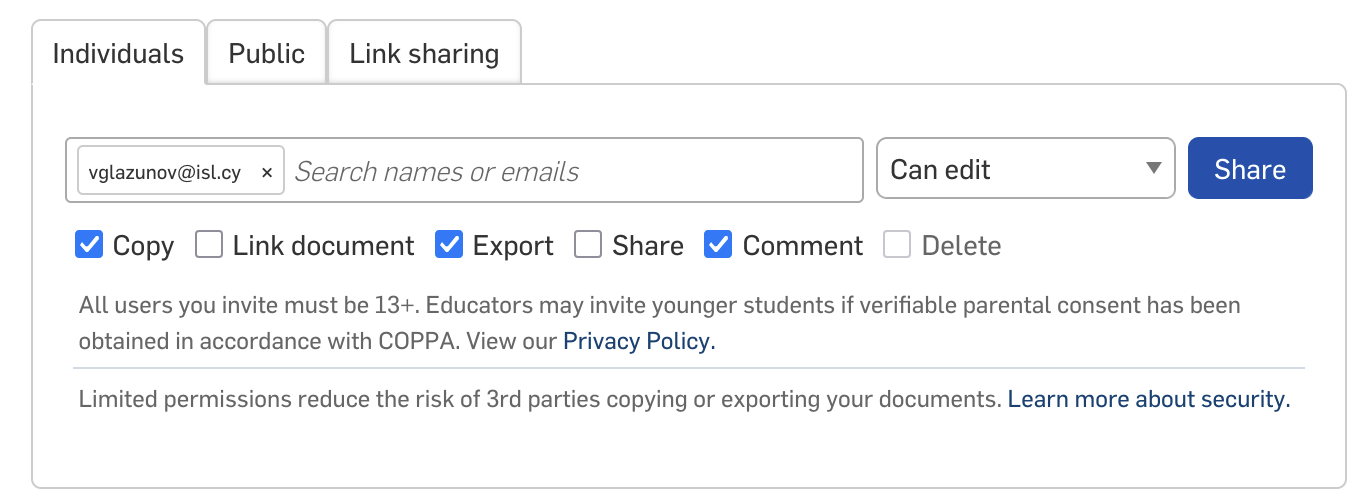
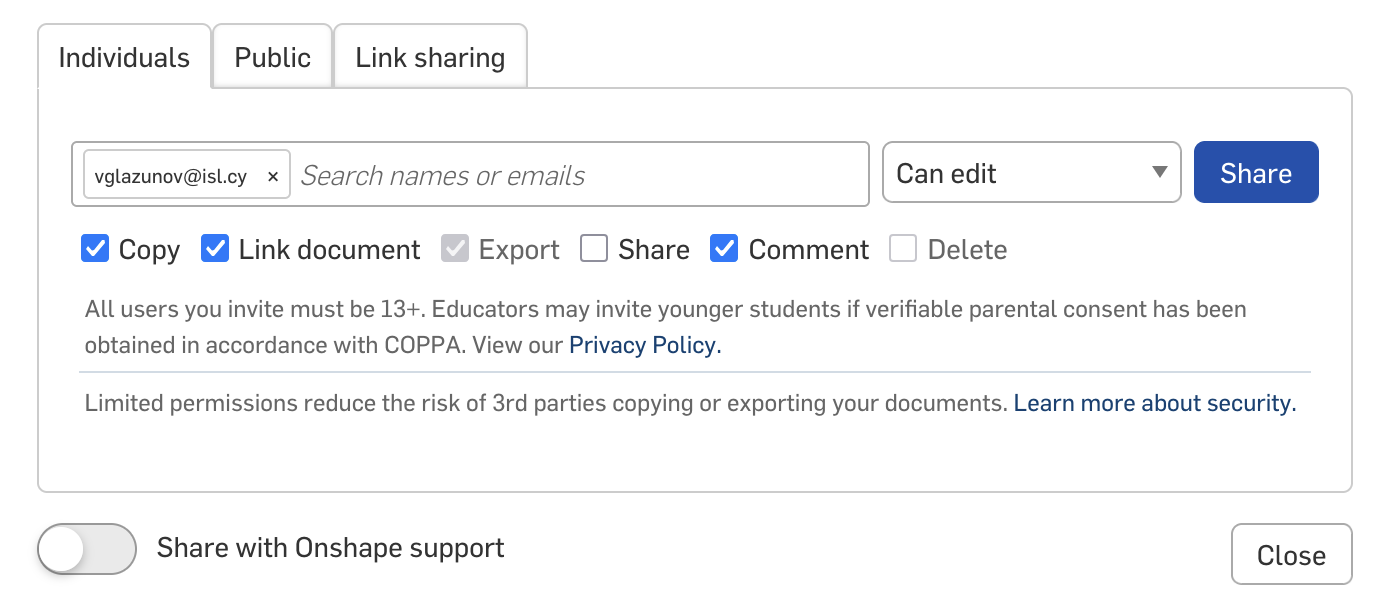
Robot: sharing instructions

diff --git a/tools/robot/site.py b/tools/robot/site.py
@@ -16,9 +16,9 @@ L=['# Team robot','','Every student builds one subassembly of about 5 parts. Tog
 "3. When all parts are ready, click **+** → **Create Assembly**, insert your parts and put them together as on the assembly sheet of your subassembly.",
 "4. **Share the document with Vlad.** Click **Share** at the top right.","",
 "    ![Share button](../img/robot/howto-share-button.png){width=45%}","",
-"    On the **Individuals** tab type `vglazunov@isl.cy`, choose **Can edit**, tick **Copy**, **Export** and **Comment**, then click **Share**.","",
+"    On the **Individuals** tab type `vglazunov@isl.cy`, choose **Can edit**, tick **Copy**, **Link document**, **Export** and **Comment**, then click **Share**. **Link document** is required — without it I cannot insert your assembly into the robot.","",
 "    ![Share with Vlad](../img/robot/howto-share-email.png){width=60%}","",
-"5. Copy the link of your document from the browser address bar and paste it into the field below. You can change it later.","",
+"5. **Send me the link.** Open your document, copy the address from the browser address bar (it starts with `https://cad.onshape.com/documents/`), paste it into the field below and press **Save**. You can change it later.","",
 '<div class="cl-link" data-task="robot"></div>',"",
 '## Coordinates','','All parts are placed in one robot coordinate system: **X** forward, **Y** left, **Z** up, origin in the middle of the base plate on the floor. Base grid: holes Ø4, pitch 8, plates 3 thick.','',
 '## Subassemblies','','| # | Subassembly | Student | Parts |','|---|---|---|---|']

diff --git a/docs/robot/index.md b/docs/robot/index.md
@@ -21,11 +21,11 @@ Every student builds one subassembly of about 5 parts. Together they make a smal
 
     ![Share button](../img/robot/howto-share-button.png){width=45%}
 
-    On the **Individuals** tab type `vglazunov@isl.cy`, choose **Can edit**, tick **Copy**, **Export** and **Comment**, then click **Share**.
+    On the **Individuals** tab type `vglazunov@isl.cy`, choose **Can edit**, tick **Copy**, **Link document**, **Export** and **Comment**, then click **Share**. **Link document** is required — without it I cannot insert your assembly into the robot.
 
     ![Share with Vlad](../img/robot/howto-share-email.png){width=60%}
 
-5. Copy the link of your document from the browser address bar and paste it into the field below. You can change it later.
+5. **Send me the link.** Open your document, copy the address from the browser address bar (it starts with `https://cad.onshape.com/documents/`), paste it into the field below and press **Save**. You can change it later.
 
 <div class="cl-link" data-task="robot"></div>
 
